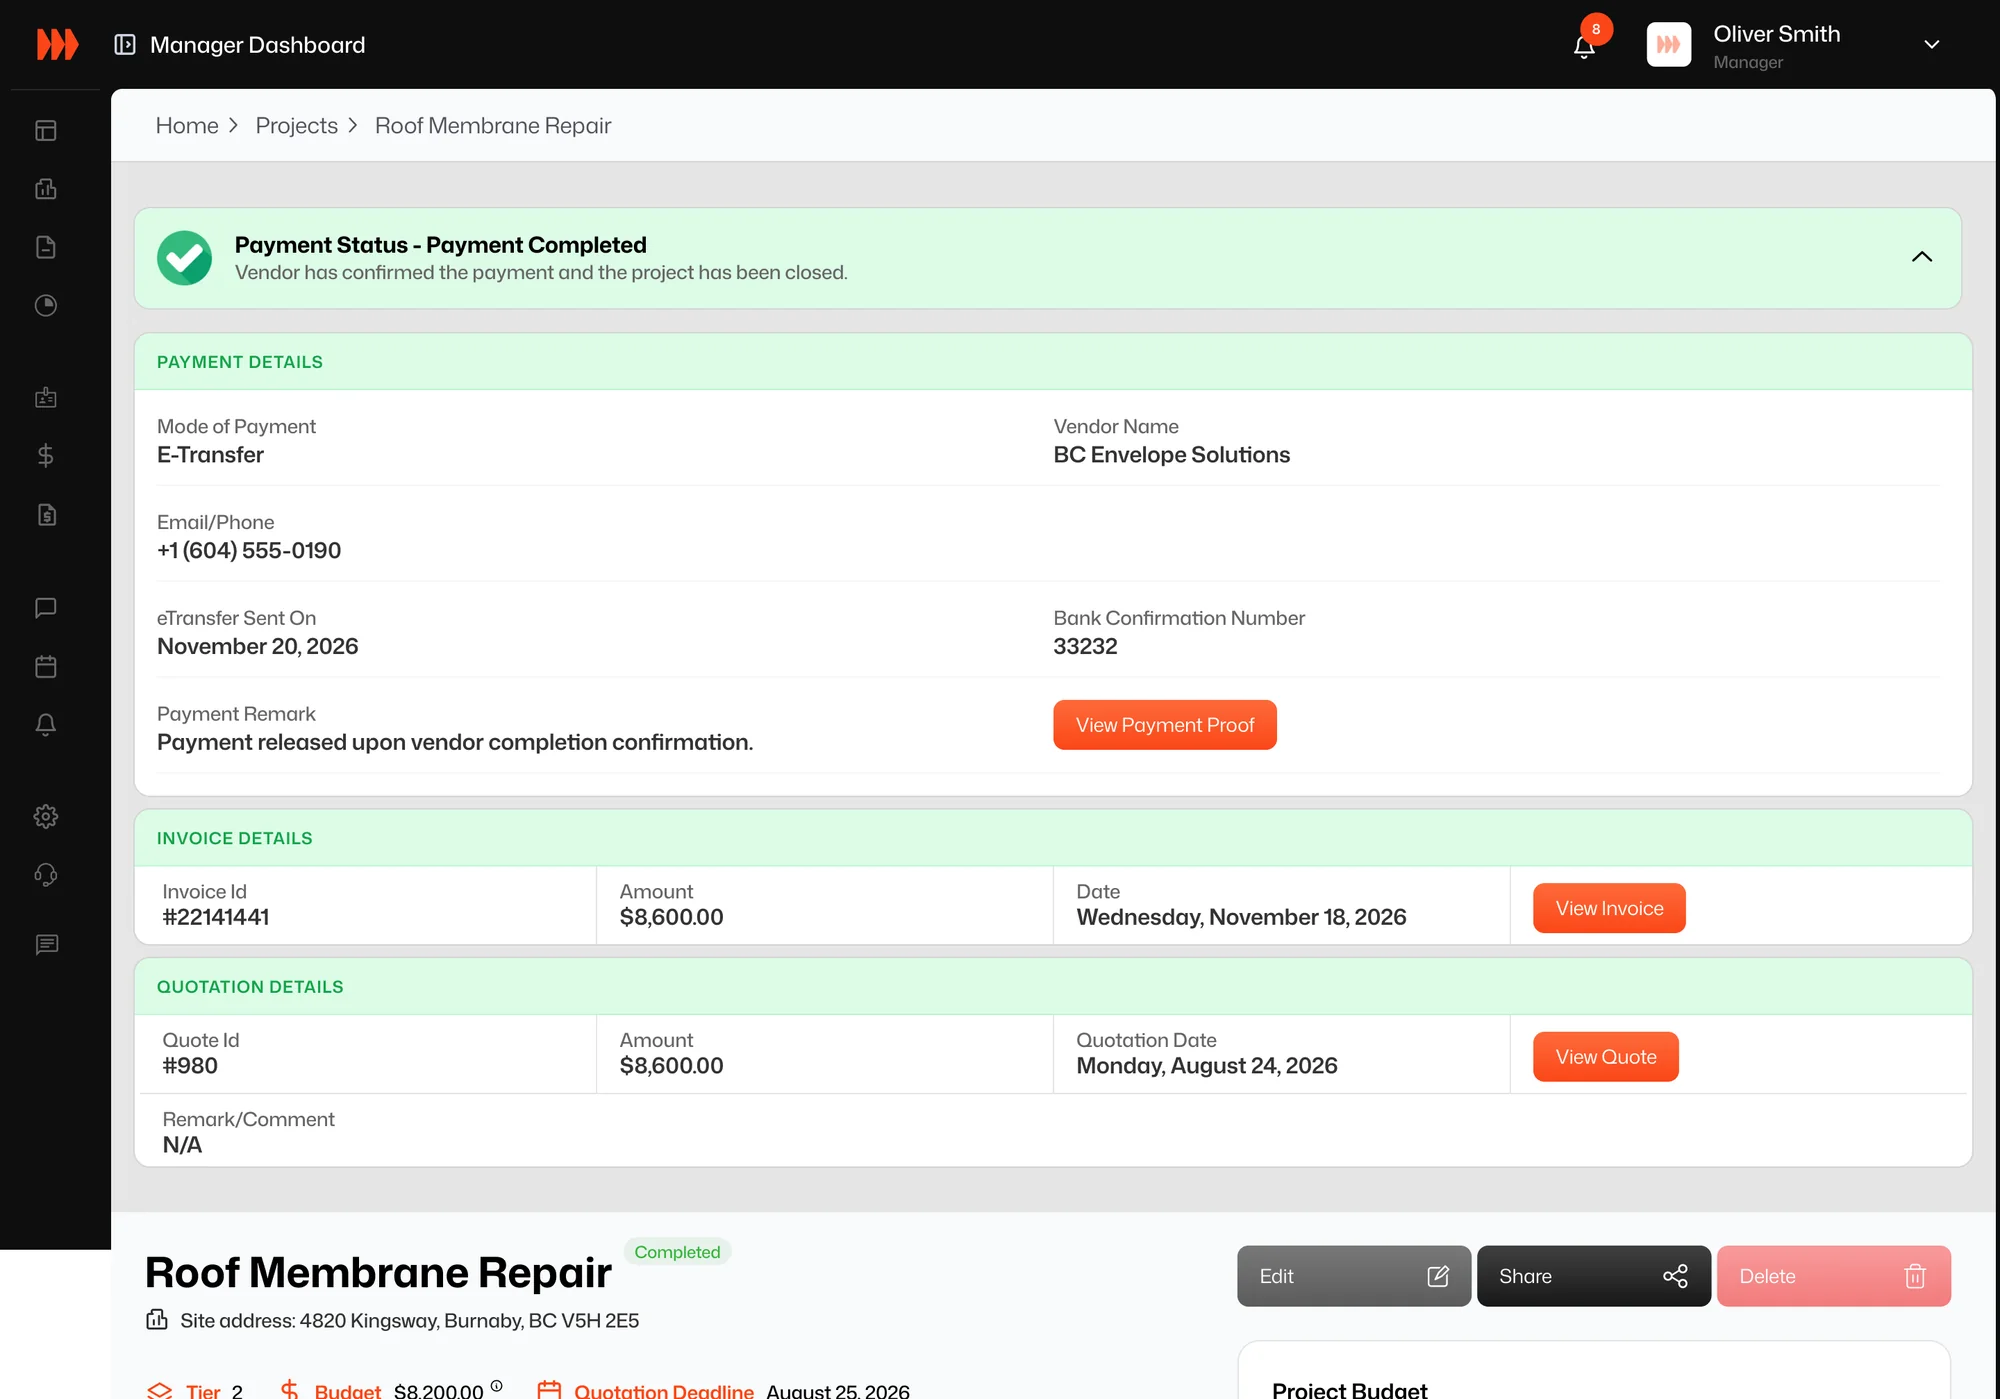
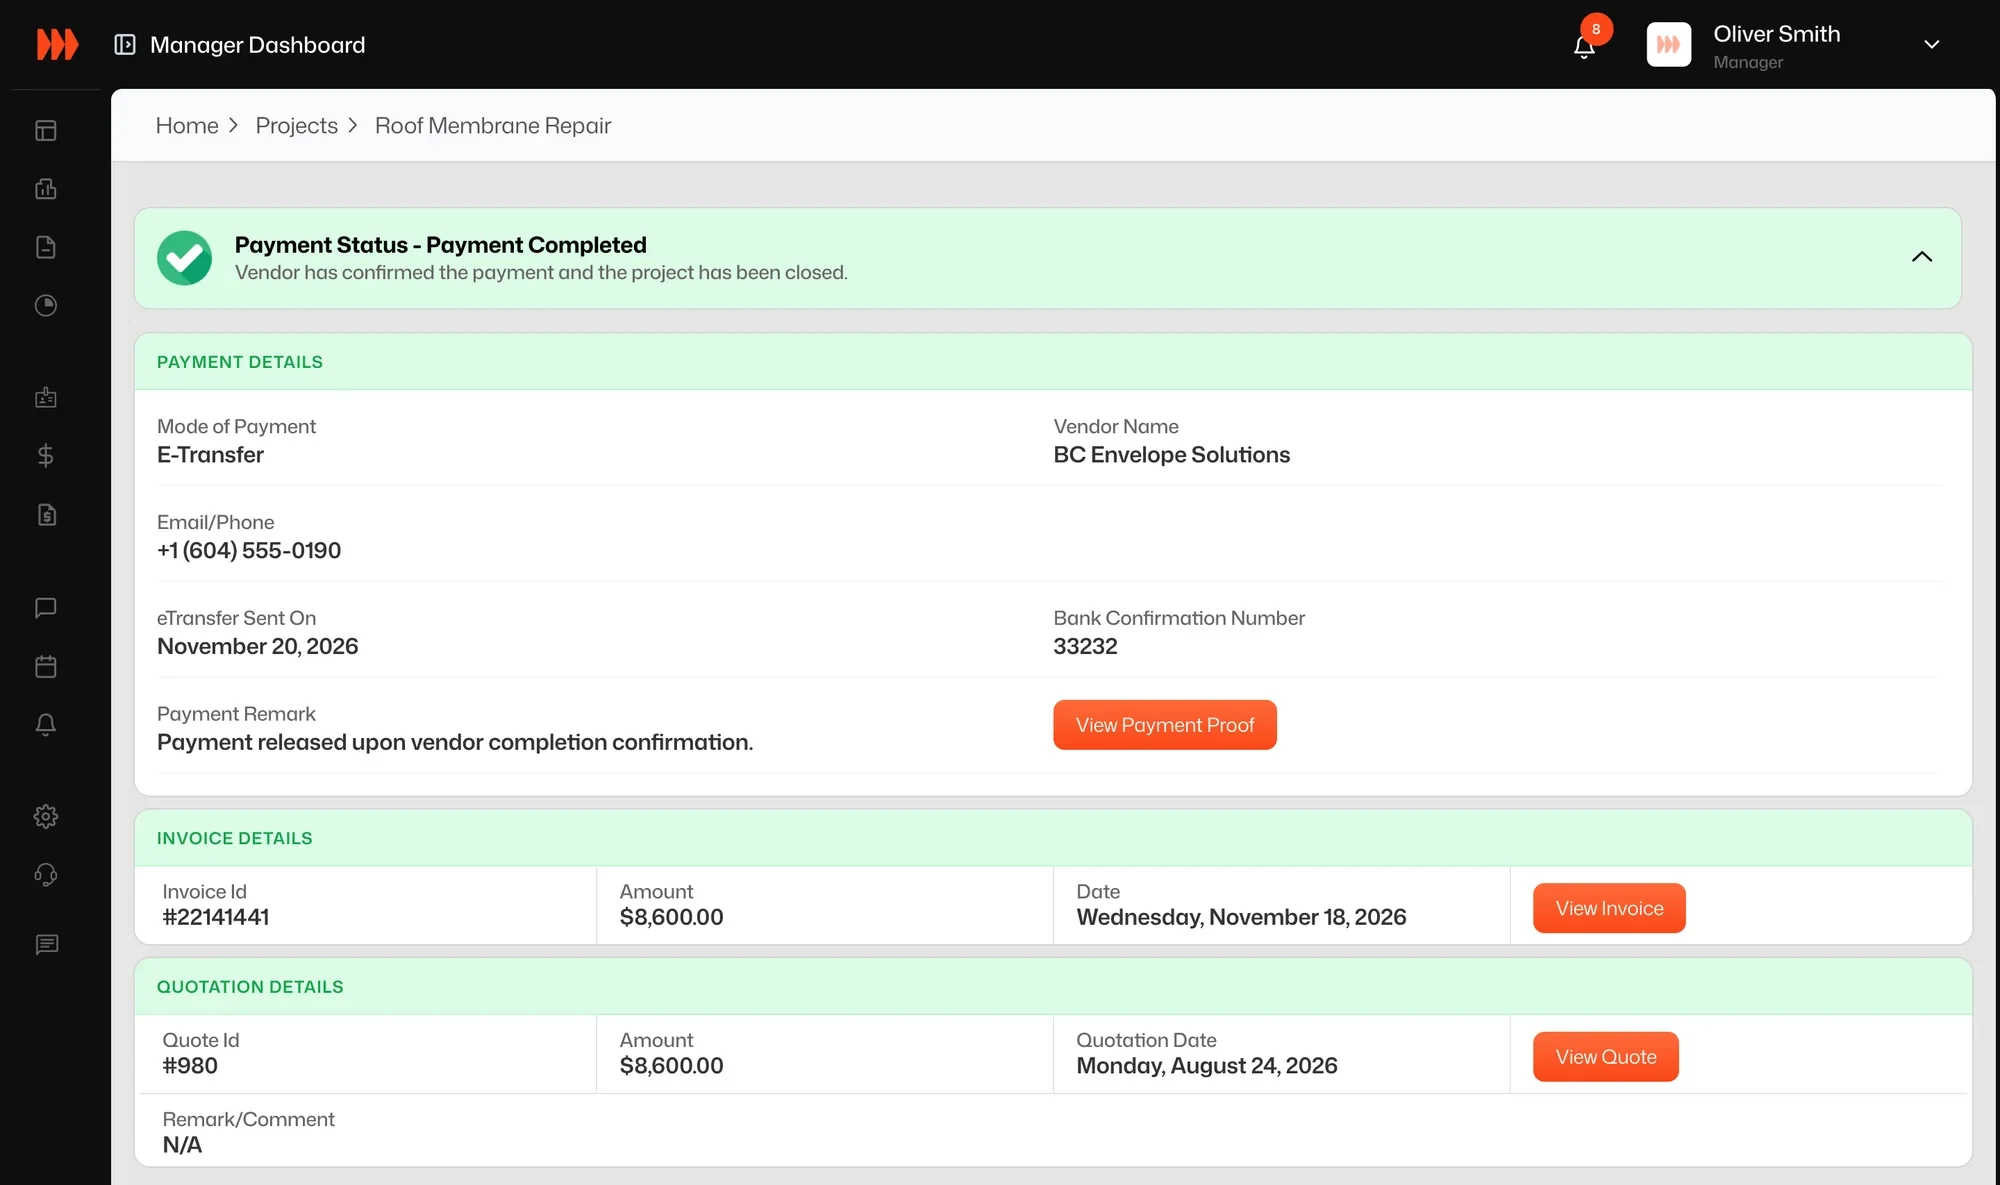
WIP from critic pass: stratalite.js, skooltag.js, skooltag hero and colour-palette, stratalite screen-payment
Stratalite v1.4: UAT table gains a 'Needed a retest' column (8 inconclusive cases, from the QA sheets' overview notes) so 86 + 12 + 8 = 106, with a note on 20 logged vs 15 distinct issues; ~210 note explains frames vs the 118-screen IA; UAT spelled out; 'AI browser agents for testing' dropped from tools; mark-complete (John Doe data) and completion-to-payment-flow (unreadable strip) dropped; screen-payment cropped to the payment panel and captioned as a design mockup with sample data.
Skooltag v1.3: SRS spelled out; hero cropped above the 'Bunble' cards; palette hex labels painted out and captioned honestly.

diff --git a/scripts/design-studies/stratalite.js b/scripts/design-studies/stratalite.js
@@ -4,7 +4,7 @@ const img = (name) => `/design/stratalite/${name}.webp`;
 
 export default {
   slug: 'stratalite',
-  version: 'v1.3',
+  version: 'v1.4',
   order: 1,
   published: true,
   title: 'Stratalite',
@@ -15,7 +15,7 @@ export default {
   client: 'Stratalite, Vancouver',
   timeline: 'About 8 months, 2026. Live in beta.',
   team: "Me on UX and UI, with the client's team and the developers who built it",
-  tools: ['Figma', 'FigJam', 'Google Sheets', 'AI browser agents for testing'],
+  tools: ['Figma', 'FigJam', 'Google Sheets'],
   heroImage: img('screen-project-detail'),
   heroAlt: 'Manager view of a project: scope of work, location map, site visit booking and photos',
   impact: [
@@ -26,8 +26,8 @@ export default {
     },
     {
       value: '~210',
-      label: 'screens designed across 5 role views, now live in beta',
-      note: 'IA of 13 sections and 118 screens mapped before design'
+      label: 'frames designed across 5 role views, now live in beta',
+      note: 'The IA has 13 sections and 118 screens; the frame count adds the dialogs and states drawn as full screens'
     },
     {
       value: '87',
@@ -36,7 +36,7 @@ export default {
     },
     {
       value: '106',
-      label: 'UAT cases across 3 passes, finding 15 issues before rollout',
+      label: 'user acceptance testing (UAT) cases across 3 passes, finding 15 distinct issues before rollout',
       note: '6 of them high priority. Vendor, manager and company admin accounts, 18 to 20 Aug 2026'
     }
   ],
@@ -56,8 +56,8 @@ The design problem was not the screens. It was that **five roles** (platform adm
     {
       type: 'text',
       label: 'My role',
-      heading: 'Design Lead, from the whiteboard to UAT',
-      body: `- **Owned:** stakeholder map, personas, journey maps, information architecture, flows, about 210 designed screens, the access model, the design-vs-build review and UAT.
+      heading: 'Design Lead, from the whiteboard to acceptance testing',
+      body: `- **Owned:** stakeholder map, personas, journey maps, information architecture, flows, about 210 designed frames, the access model, the design-vs-build review and user acceptance testing (UAT).
 - **Worked with:** the client's team at Stratalite on priorities and KPIs, and the developers who built the product.
 - **Joined** before any screen existed, and stayed until the live build matched the design.`
     },
@@ -232,14 +232,14 @@ So before any screen, I mapped **13 actions against 5 roles**, in 5 domains, at 
       heading: 'Tested across roles, not one screen at a time',
       body: `A permission model is only right if every role sees the right thing at the same moment. So I tested it the way it is used: **vendor and manager accounts working the same test project side by side**, so each hand-off from interest to payment was checked from both ends.
 
-| Pass | Date | Test cases | Passed | Flagged |
-|---|---|---|---|---|
-| Vendor side | 18 Aug | 43 | 31 | 6 |
-| Manager side | 18 Aug | 21 | 17 | 2 |
-| Manager and company admin | 20 Aug | 42 | 38 | 4 |
-| **Total** | | **106** | **86** | **12** |
+| Pass | Date | Test cases | Passed | Flagged | Needed a retest |
+|---|---|---|---|---|---|
+| Vendor side | 18 Aug | 43 | 31 | 6 | 6 |
+| Manager side | 18 Aug | 21 | 17 | 2 | 2 |
+| Manager and company admin | 20 Aug | 42 | 38 | 4 | 0 |
+| **Total** | | **106** | **86** | **12** | **8** |
 
-That gave **15 distinct issues, 6 of them high priority**, each with a priority and an owner action. The clearest: inviting a manager showed "Invitation sent!", but no email arrived, so the new manager could never log in. The screen said success while the outcome failed.
+"Needed a retest" means the result was inconclusive, so those 8 cases count as neither passed nor flagged. Issues were logged on flagged cases and on some that passed: 20 in all, and **15 distinct** once repeats across passes were merged, **6 of them high priority**, each with a priority and an owner action. The clearest: inviting a manager showed "Invitation sent!", but no email arrived, so the new manager could never log in. The screen said success while the outcome failed.
 
 Later I mapped the live product one role at a time: **237 flows** across 5 roles and **73 scripted lifecycle tests**, with each role signed in to its own browser on the same records. That walk produced **30 corrections** to the flow boards, 29 of them applied, and **87 business questions** I took back to the client.`
     },
@@ -282,11 +282,6 @@ Later I mapped the live product one role at a time: **237 flows** across 5 roles
       layout: 'grid-2',
       images: [
         {
-          src: img('mark-complete'),
-          alt: "Vendor's project page with the Mark project as complete button and a note to use it only after all tasks are finished",
-          caption: 'The vendor side: "Mark project as complete", with a note to use it only once every task is done.'
-        },
-        {
           src: img('proceed-with-invoice'),
           alt: 'All tasks ticked, and a Proceed with Invoice card on the vendor project page',
           caption: 'With every task ticked, the same page asks the vendor to proceed with the invoice.'
@@ -299,7 +294,7 @@ Later I mapped the live product one role at a time: **237 flows** across 5 roles
         {
           src: img('screen-payment'),
           alt: 'Payment completed view with payment, invoice and quotation details in one place',
-          caption: 'Payment closes on the same record: payment, invoice and quote together.'
+          caption: 'Design mockup with sample data: payment, invoice and quote close on the same record.'
         }
       ]
     },
@@ -346,11 +341,6 @@ For managers, a "Next step" column turns each status into a plain action:
           src: img('information-architecture'),
           alt: 'Part of the information architecture tree',
           caption: 'Information architecture: 13 sections, 118 screens.'
-        },
-        {
-          src: img('completion-to-payment-flow'),
-          alt: 'Manager flow from project assignment to cheque payment',
-          caption: 'Flow board: from assignment to payment, including the dispute loop.'
         },
         {
           src: img('kpi-manager-annotated'),

diff --git a/scripts/design-studies/skooltag.js b/scripts/design-studies/skooltag.js
@@ -4,7 +4,7 @@ const img = (name) => `/design/skooltag/${name}.webp`;
 
 export default {
   slug: 'skooltag',
-  version: 'v1.2',
+  version: 'v1.3',
   order: 3,
   published: true,
   title: 'Skooltag',
@@ -17,7 +17,7 @@ export default {
   team: 'Two designers (me and one other) and three developers. No product manager, so I also coordinated the graphic designer, the motion designer and the developers.',
   tools: ['Figma'],
   heroImage: img('hero'),
-  heroAlt: 'Skooltag app home screens on a yellow background: uniform categories, packages and recommended items',
+  heroAlt: 'The Skooltag logo above three app home screens on a yellow background: the child switcher, uniform categories and a package offer',
   impact: [
     { value: '5', label: 'design iterations with the client to settle the parent app' },
     { value: '85', label: 'screens handed off in 14 flows, from login to cancellation' },
@@ -28,7 +28,7 @@ export default {
     },
     {
       value: '15',
-      label: 'page SRS for the back office',
+      label: 'page software requirements specification (SRS) for the back office',
       note: 'Admin, store, delivery and school roles, in 3 phases'
     }
   ],
@@ -105,7 +105,7 @@ After the order mattered as much: tracking, item-level cancellation, invoice dow
       body: `- **Early flows:** 7 flows, ending in a final flow for the app.
 - **5 named iterations** with the client, with reference ordering flows studied along the way.
 - **Website IA:** 45 nodes for the parent site and the school-partnership side.
-- **Back office:** 3 journey maps and 272 steps of flows for admin, store and delivery roles, plus a 15-page SRS, because the app was only half the product.`,
+- **Back office:** 3 journey maps and 272 steps of flows for admin, store and delivery roles, plus a 15-page software requirements specification (SRS), because the app was only half the product.`,
       images: [
         {
           src: img('backend-flow-store-view'),
@@ -134,8 +134,8 @@ After the order mattered as much: tracking, item-level cancellation, invoice dow
         },
         {
           src: img('colour-palette'),
-          alt: 'Skooltag colour palette with primary yellow, greys and status colours',
-          caption: 'Colour palette, with the status colours.'
+          alt: 'Skooltag colour palette: primary yellow and its button states, ink and grey shades, and the warning, error and success colours',
+          caption: 'Colour palette, swatches and names only. The hex labels in this export were wrong, so they are removed.'
         }
       ]
     },
